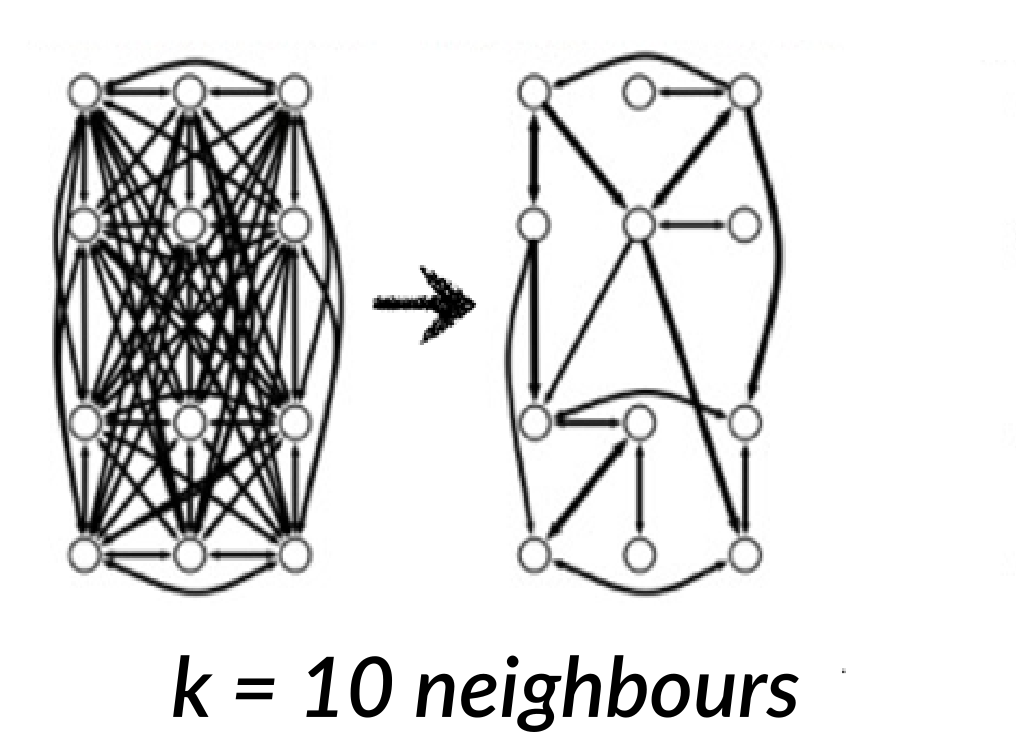
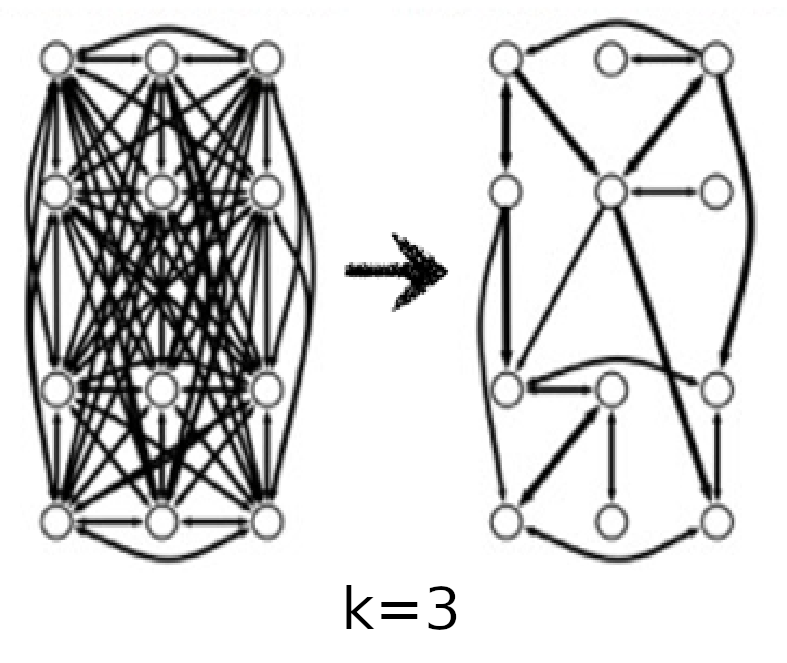
clarify(analysis): process of modularity clustering

diff --git a/chapter_analysis/chapter_analysis.tex b/chapter_analysis/chapter_analysis.tex
@@ -244,16 +244,31 @@ This optimisation problem is computationally difficult, so approximations such a
   ]{
     Process of preparing a dataset of time series for modularity clustering.
     \textbf{(\ref{fig:analysis-clustering-modclust-graph})}
-    Constructing a graph representation: each time series was represented as a vector of \textit{catch22} features in 22-dimensional space.
-    The cosine distances between each pair of vector was computed, and became the edge weights of a complete graph with each time series as a node.
+    Constructing a graph representation: each time series was featurised and the cosine distances in feature space became edge weights.
     \textbf{(\ref{fig:analysis-clustering-modclust-prune})}
-    Pruning the complete graph, by deleting edges, so that each node had at least 10 neighbours.
+    Pruning the complete graph so that each node had at least the $k$ nearest neighbours.
     \textbf{(\ref{fig:analysis-clustering-modclust-modclust})}
     Modularity clustering, using the Leiden algorithm \parencite{traagLouvainLeidenGuaranteeing2019}, to identify communities.
     \ref{fig:analysis-clustering-modclust-modclust} adapted from \textcite{newmanModularityCommunityStructure2006}.
+    In all subfigures, data are synthetic and only serve to illustrate the process.
   }
   \label{fig:analysis-clustering-modclust}
 \end{figure}
+
+To assess the performance of a graph-based clustering method in identify clusters in time series data, I represented a dataset of time series as a graph before using modularity clustering to identify clusters.
+Fig.\ \ref{fig:analysis-clustering-modclust} illustrates this process, specifically:
+\begin{enumerate}
+  \item \emph{Constructing a graph representation:}
+        Each time series was represented as a vector of features in $n$-dimensional space, where $n$ is the length of the vector.
+        Here, I represented each time series with a vector of 22 features using \textit{catch22}.
+        The cosine distances between each pair of vector was computed, and became the edge weights of a complete graph with each time series as a node.
+  \item \emph{Pruning:}
+        The complete graph was pruned by deleting edges, so that each node was connected to at least the $k$ nearest neighbours.
+        I used $k=10$.
+  \item \emph{Modularity clustering:}
+        Modularity clustering was performed on the graph to partition the pruned graph into communities.
+        In this step, I used the Leiden algorithm \parencite{traagLouvainLeidenGuaranteeing2019}.
+\end{enumerate}
 
 
 \begin{figure}[htbp]
@@ -288,8 +303,6 @@ This optimisation problem is computationally difficult, so approximations such a
   \label{fig:graphclustering}
 \end{figure}
 
-
-To assess the performance of a graph-based clustering method in identifying clusters in time series data, I first represented a dataset of time series as a graph (Fig.\ \ref{fig:analysis-clustering-modclust}).
 Fig.\ \ref{fig:graphclustering-combined} shows that construction of a pruned graph based on similarities between time series highlights two groups of non-oscillatory time series.
 Furthermore, Fig.\ \ref{fig:graphclustering-leiden} suggests that these two groups belong to separate communities, and shows that modularity clustering was able to further show communities among the oscillatory time series.
 However, such communities did not divide cleanly along the division between BY4741 and \textit{zwf1$\Delta$} cells, suggesting that time series features alone were not able to divide these two strains.
